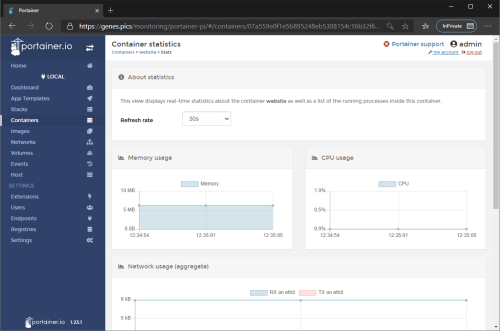
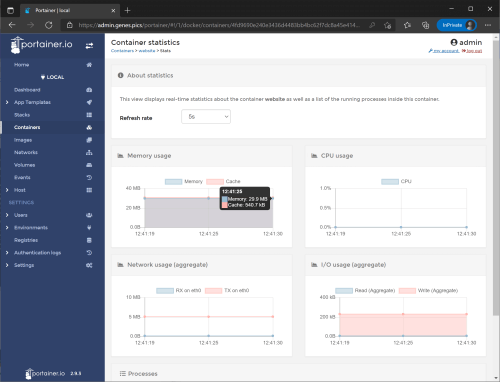
Update screenshots

diff --git a/Project/Pages/Features.md b/Project/Pages/Features.md
@@ -21,7 +21,7 @@ an ongoing task, especially since there is currently a lot of potential to be ta
 ## Footprint
 
 Applications developed with the GenHTTP SDK are optimized for low disk space and memory requirements. A basic application
-(such as this website) will consume about 15 MB of memory and 50 MB of disk space when
+(such as this website) will consume about 30 MB of memory and 50 MB of disk space when
 [running in Docker](/documentation/hosting/).
 
 ![The website of the GenHTTP websever running in docker](/images/footprint.png)
